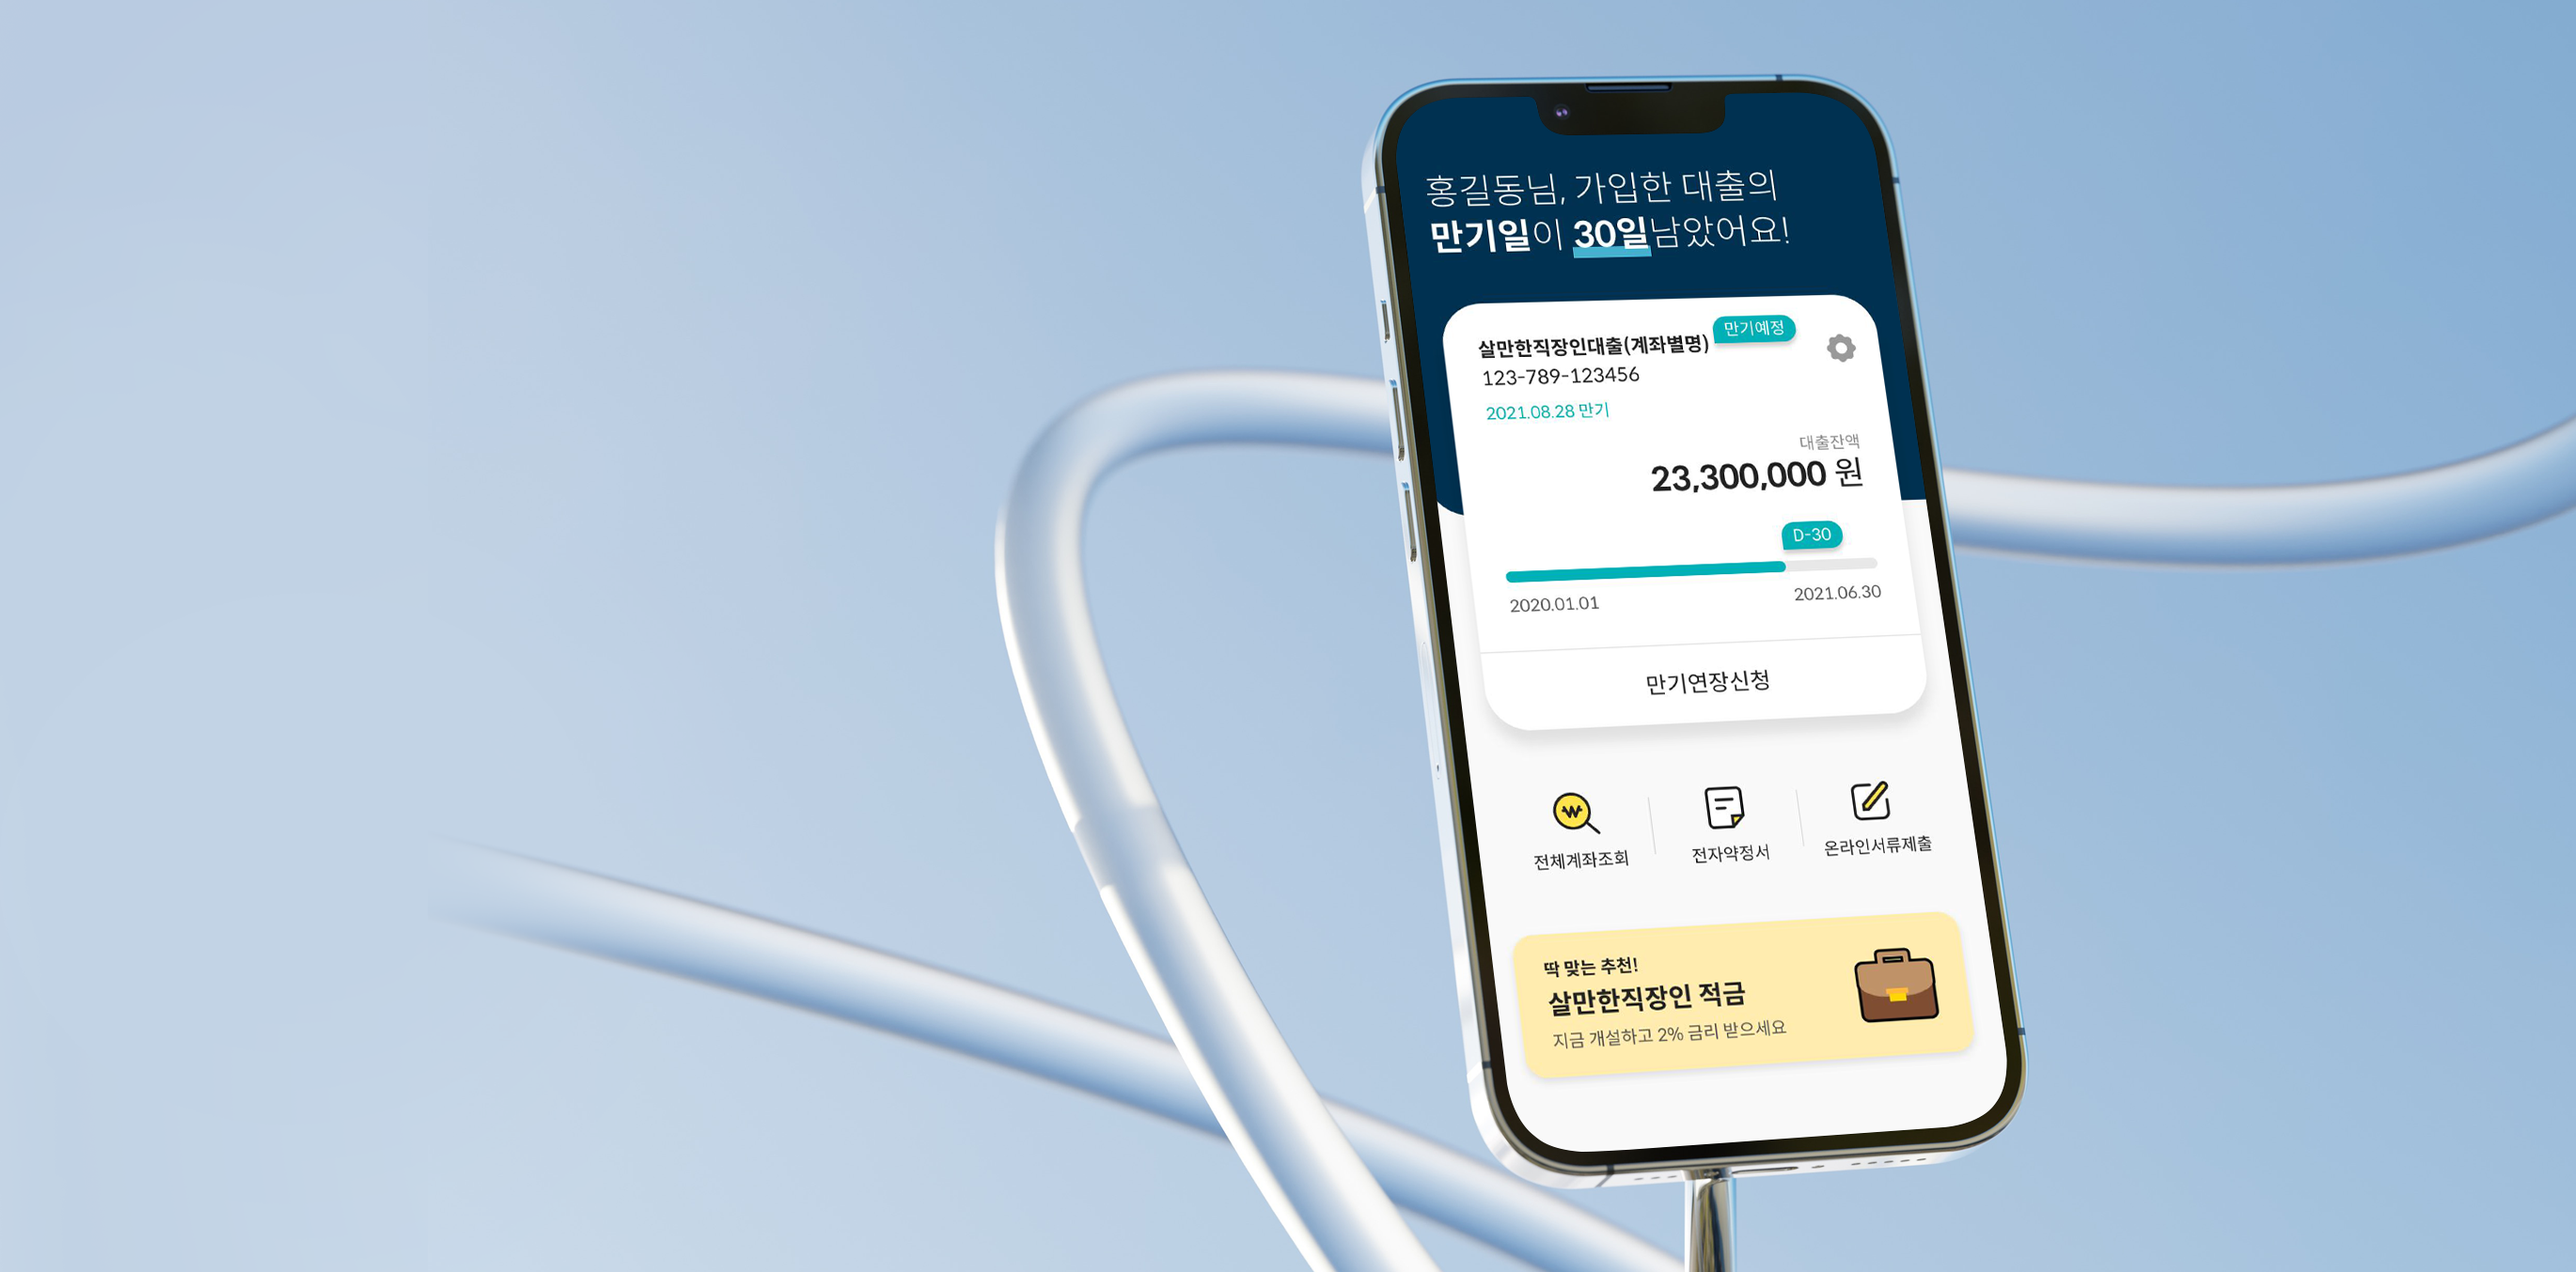
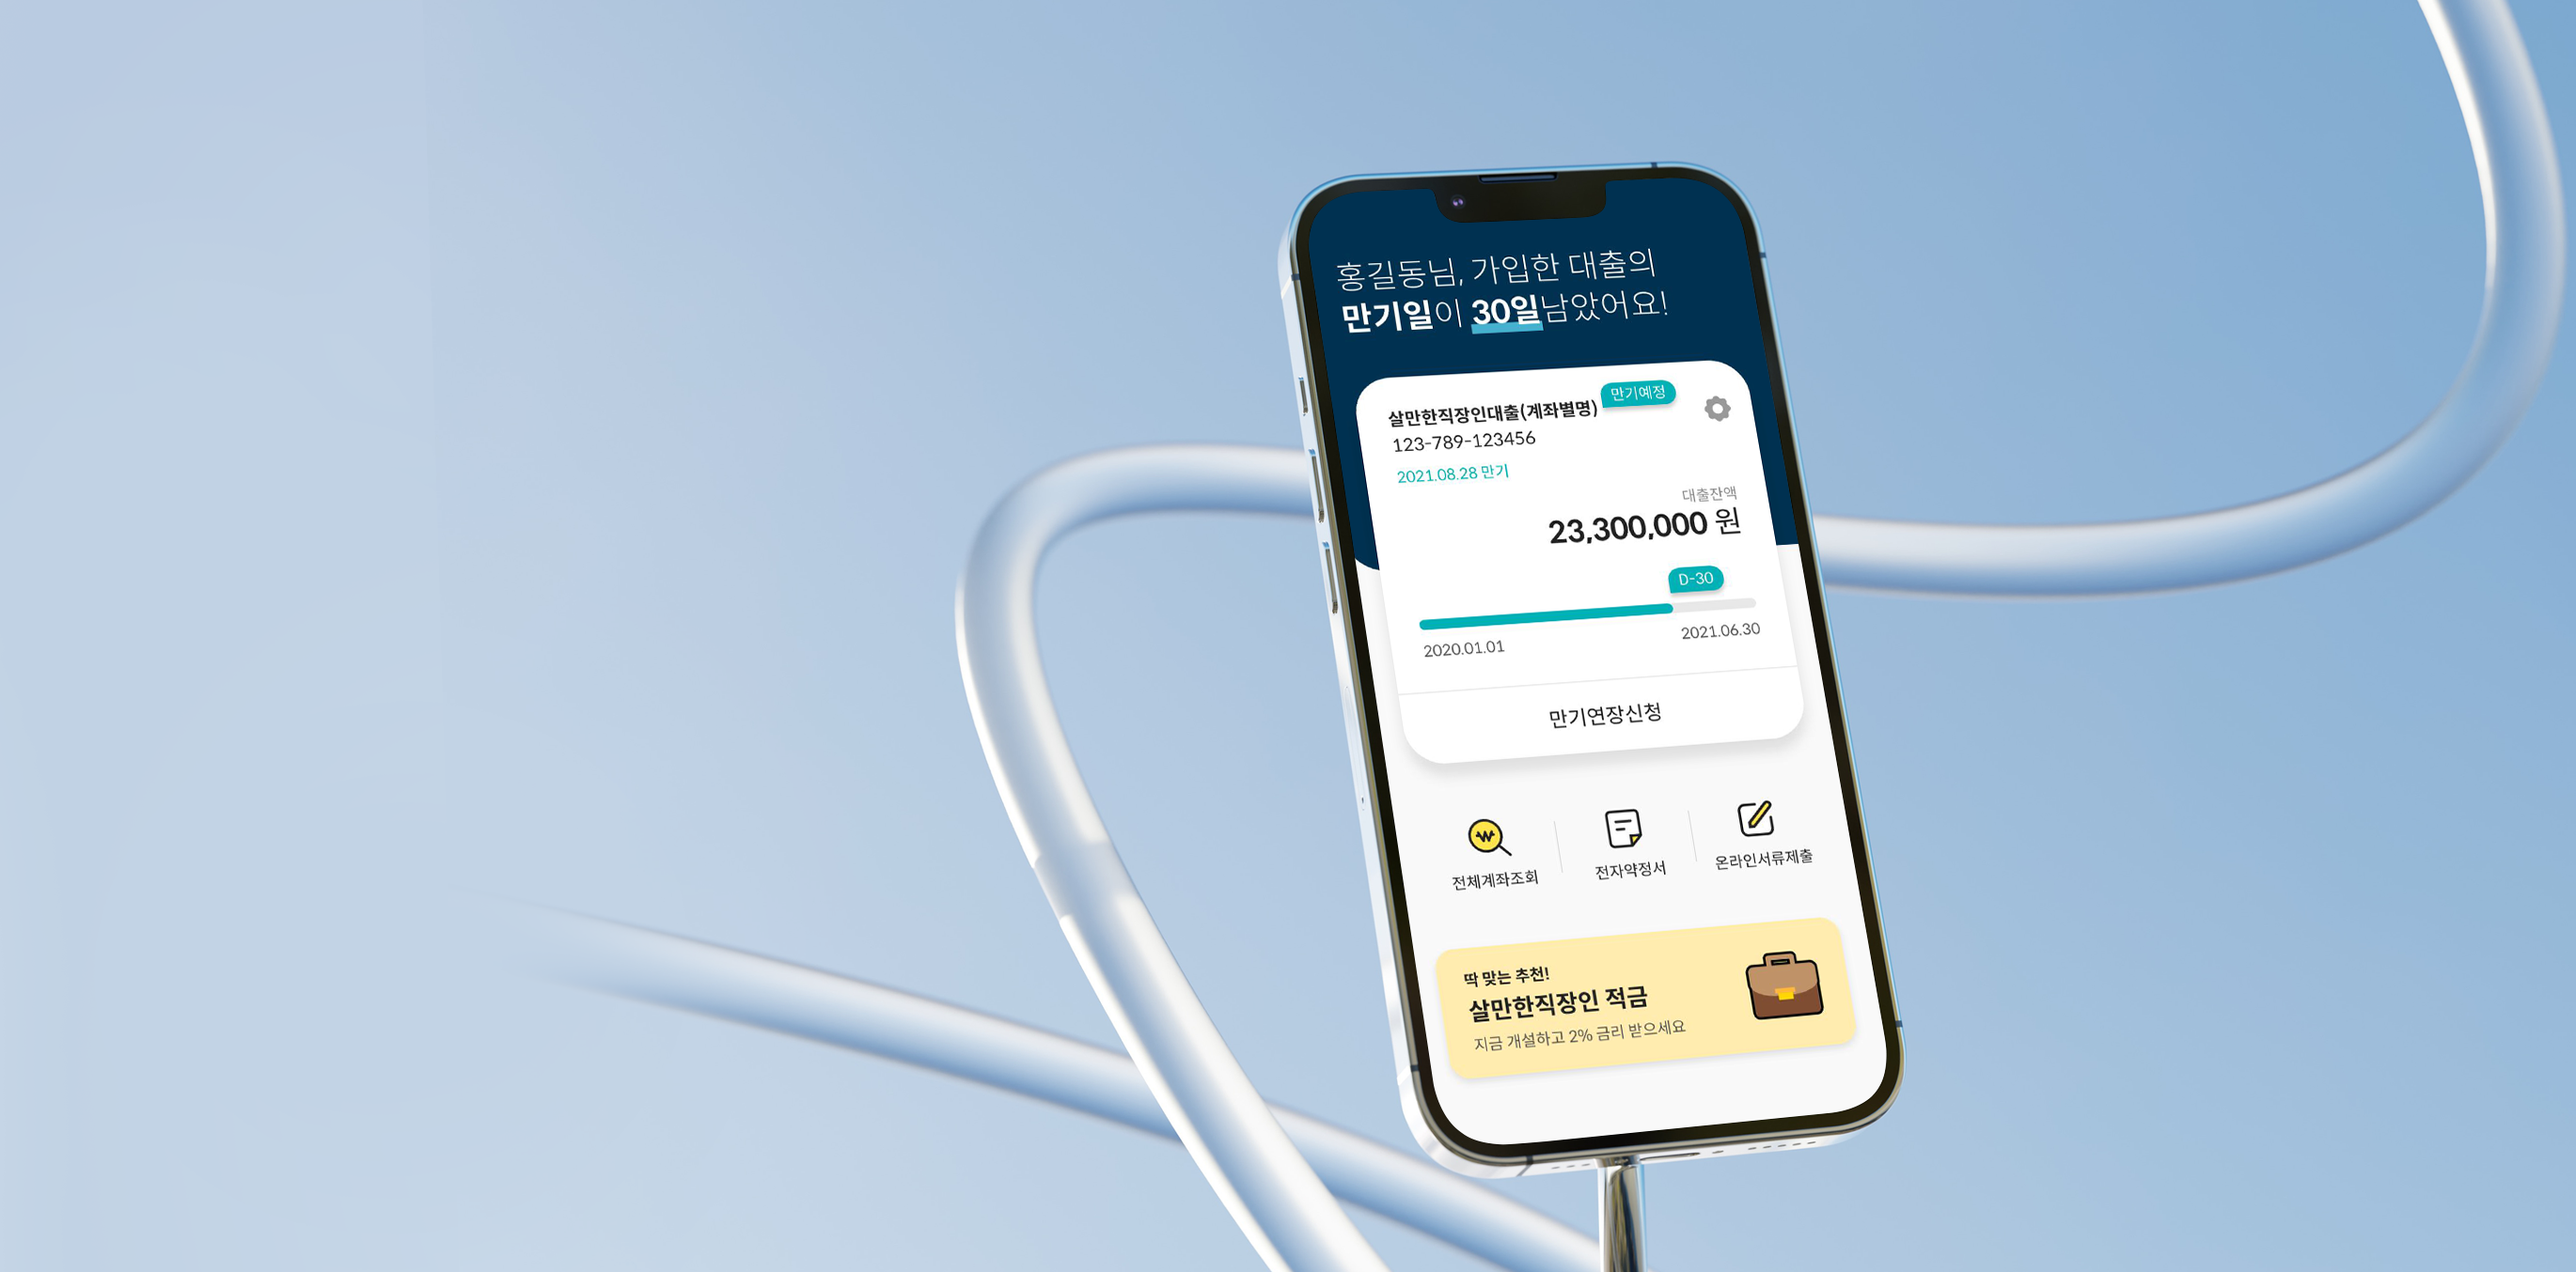
style: keybank이미지 사이즈 조정

Changed region(s): [[0.2172, 0.062, 1.0, 1.0], [0.9307, 0.0, 1.0, 0.2482]]

diff --git a/pages/keybank.html b/pages/keybank.html
@@ -71,7 +71,7 @@
             <article>
                 <div class="content">
                     <figure>
-                        <img src="../images/mockup_kb1.png">
+                        <img src="../images/mockup_kb4.png">
                     </figure>
                     <p class="desc">keybank keyvisual</p>
                 </div>
